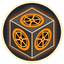
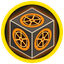
Hidden Cube: an announced cube gets a large pulsing gold-ringed mark with the cube picture (over everything else); the places get a bright yellow ring on a dark disc

Changed region(s): [[0.0, 0.0, 1.0, 1.0]]

diff --git a/Client/Ui/PetMapWindows.cs b/Client/Ui/PetMapWindows.cs
@@ -477,6 +477,34 @@ public sealed class PetMapWindow : MovableOverlay
     private readonly List<string> _roadOrder = new();
 
     private readonly List<TextBlock> _heightLabels = new();
+    private readonly List<Grid> _cubeMarks = new();
+
+    /// <summary>The pseudo pet id the live Hidden Cubes travel under (the controller's own number).</summary>
+    private const int CubeMarkPet = -1;
+
+    /// <summary>The mark of an announced cube: 44 px, a pulsing ring, a dark disc with a thick gold ring and the cube's picture.</summary>
+    private static Grid NewCubeMark()
+    {
+        var pulse = new Ellipse { Width = 44, Height = 44, Stroke = new SolidColorBrush(Color.FromRgb(0xFF, 0xD5, 0x4A)), StrokeThickness = 3, IsHitTestVisible = false, RenderTransformOrigin = new Point(0.5, 0.5), RenderTransform = new ScaleTransform(0.65, 0.65) };
+        var scale = new System.Windows.Media.Animation.DoubleAnimation(0.65, 1.0, TimeSpan.FromMilliseconds(1100)) { RepeatBehavior = System.Windows.Media.Animation.RepeatBehavior.Forever };
+        var fade = new System.Windows.Media.Animation.DoubleAnimation(0.95, 0.0, TimeSpan.FromMilliseconds(1100)) { RepeatBehavior = System.Windows.Media.Animation.RepeatBehavior.Forever };
+        pulse.RenderTransform.BeginAnimation(ScaleTransform.ScaleXProperty, scale);
+        pulse.RenderTransform.BeginAnimation(ScaleTransform.ScaleYProperty, scale);
+        pulse.BeginAnimation(UIElement.OpacityProperty, fade);
+        var disc = new Ellipse
+        {
+            Width = 32, Height = 32, Fill = new SolidColorBrush(Color.FromArgb(0xEE, 0x0E, 0x12, 0x1A)), Stroke = new SolidColorBrush(Color.FromRgb(0xFF, 0xD5, 0x4A)), StrokeThickness = 4, IsHitTestVisible = false,
+            Effect = new System.Windows.Media.Effects.DropShadowEffect { BlurRadius = 8, ShadowDepth = 0, Color = Color.FromRgb(0xFF, 0xB0, 0x20), Opacity = 0.95 },
+        };
+        var cube = new Image { Width = 24, Height = 24, Source = AionDPS.Aion2.Protocol.Aion2Gather.Icon("Hidden Cube"), IsHitTestVisible = false };
+        RenderOptions.SetBitmapScalingMode(cube, BitmapScalingMode.HighQuality);
+        var grid = new Grid { Width = 44, Height = 44, IsHitTestVisible = false, Visibility = Visibility.Collapsed };
+        Panel.SetZIndex(grid, 5);
+        grid.Children.Add(pulse);
+        grid.Children.Add(disc);
+        grid.Children.Add(cube);
+        return grid;
+    }
 
     /// <summary>The Hidden Cubes in view with how much higher (+) or lower (-) they are than the player (world units): drawn as a blue number with an arrow beside the cube.</summary>
     public IReadOnlyList<(float X, float Y, float Dz)> CubeHeights { get; set; } = Array.Empty<(float X, float Y, float Dz)>();
@@ -761,7 +789,7 @@ public sealed class PetMapWindow : MovableOverlay
                 var shown = _gatherIcons[iconMark++];
                 shown.Source = icon;
                 // the cubes are many and close together: a smaller picture than the other collectibles
-                double side = kind == "Cube" ? 22 : 24;
+                double side = kind == "Cube" ? 24 : 24;
                 shown.Width = shown.Height = side;
                 Canvas.SetLeft(shown, px - side / 2);
                 Canvas.SetTop(shown, py - side / 2);
@@ -794,12 +822,29 @@ public sealed class PetMapWindow : MovableOverlay
         }
 
         // the monsters really around the player (announced by the game): large, bright, over the general spawn points
-        int liveDot = 0;
+        int liveDot = 0, cubeMark = 0;
         foreach ((int pet, float x, float y) in live)
         {
             double px = cx + (x - worldX) * ppu, py = cy + (y - worldY) * ppu;
             if (px < 8 || py < 8 || px > vw - 8 || py > vh - 8)
             {
+                continue;
+            }
+
+            if (pet == CubeMarkPet)
+            {
+                // an announced Hidden Cube (in range right now): a large cube picture inside a bright gold ring that pulses, over everything else
+                while (cubeMark >= _cubeMarks.Count)
+                {
+                    var created = NewCubeMark();
+                    _cubeMarks.Add(created);
+                    _canvas.Children.Add(created);
+                }
+
+                var cubeVisual = _cubeMarks[cubeMark++];
+                Canvas.SetLeft(cubeVisual, px - 22);
+                Canvas.SetTop(cubeVisual, py - 22);
+                cubeVisual.Visibility = Visibility.Visible;
                 continue;
             }
 
@@ -820,6 +865,11 @@ public sealed class PetMapWindow : MovableOverlay
         for (int i = liveDot; i < _liveDots.Count; i++)
         {
             _liveDots[i].Visibility = Visibility.Collapsed;
+        }
+
+        for (int i = cubeMark; i < _cubeMarks.Count; i++)
+        {
+            _cubeMarks[i].Visibility = Visibility.Collapsed;
         }
 
         // the height of each cube in view beside its mark: an arrow up or down and the metres (blue)
@@ -852,7 +902,7 @@ public sealed class PetMapWindow : MovableOverlay
             }
 
             shownLabel.Inlines.Add(new System.Windows.Documents.Run(" " + metres));
-            Canvas.SetLeft(shownLabel, px + 12);
+            Canvas.SetLeft(shownLabel, px + 25);
             Canvas.SetTop(shownLabel, py - 9);
             shownLabel.Visibility = Visibility.Visible;
         }

diff --git a/Tools/aion2-icons/build_cube_icon.py b/Tools/aion2-icons/build_cube_icon.py
@@ -80,7 +80,7 @@ def main():
     cube = square.resize((int(OUT * 0.88), int(OUT * 0.88)), Image.LANCZOS)
     plate = Image.new("RGBA", (OUT * 4, OUT * 4), (0, 0, 0, 0))
     d = ImageDraw.Draw(plate)
-    d.ellipse([4, 4, OUT * 4 - 5, OUT * 4 - 5], fill=(14, 18, 26, 235), outline=(255, 236, 190, 255), width=8)
+    d.ellipse([4, 4, OUT * 4 - 5, OUT * 4 - 5], fill=(20, 16, 4, 240), outline=(255, 221, 0, 255), width=14)
     plate = plate.resize((OUT, OUT), Image.LANCZOS)
     plate.alpha_composite(cube, ((OUT - cube.width) // 2, (OUT - cube.height) // 2 + 1))
     plate.save(os.path.join(out_dir, "HiddenCube.png"), optimize=True)
